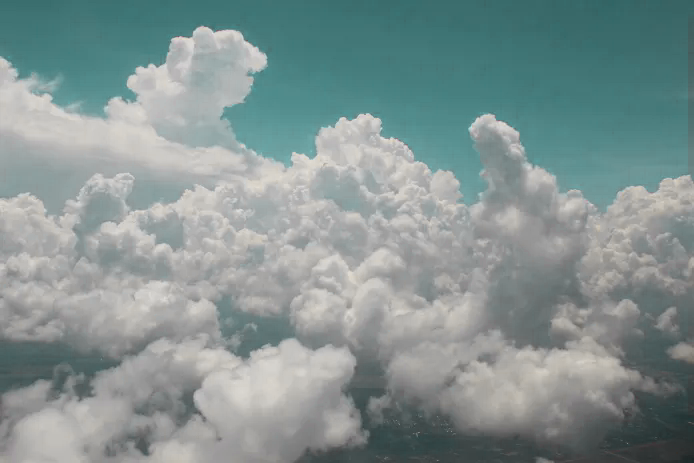
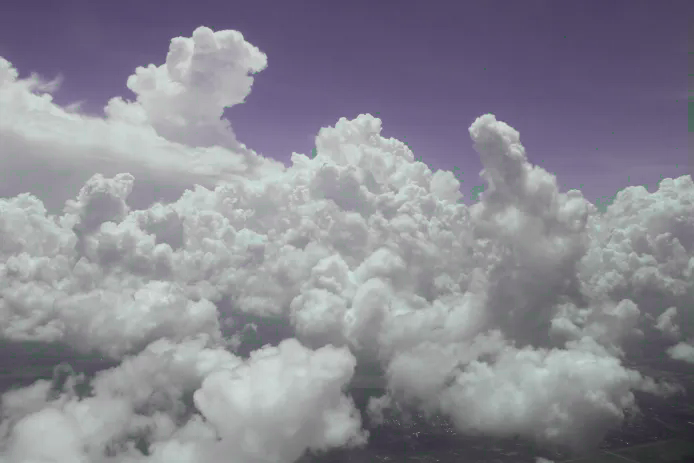
Further updates to code

Changed region(s): [[0.0, 0.0, 1.0, 0.4536]]

diff --git a/src/filter/algorithms.rs b/src/filter/algorithms.rs
@@ -77,8 +77,12 @@ fn apply_gradient_map(image: DynamicImage, gradient: &[(RgbPixel, f32)]) -> Dyna
     let mut sorted = Vec::from(gradient.clone());
     sorted.sort_by(|a, b| a.1.partial_cmp(&b.1).unwrap());
 
+    let mut max_l = f32::MIN;
+
     for pixel in rgb8_image.pixels_mut() {
-        let (_, _, l) = RgbPixel::from(&*pixel).as_hsl().get();
+        let (mut l, _, _) = RgbPixel::from(&*pixel).as_lch().get();
+
+        l = l / 100.0;
 
         let index = sorted.iter().position(|(_, threshold)| l < *threshold);
         if let Some(index) = index {
@@ -122,9 +126,9 @@ fn apply_quantize_hue(image: DynamicImage, hues: &[f32]) -> DynamicImage {
     let mut rgb8_image = image.into_rgb8();
 
     for pixel in rgb8_image.pixels_mut() {
-        let mut hsl = RgbPixel::from(&*pixel).as_hsl();
-        hsl.quantize_hue(hues);
-        (pixel[0], pixel[1], pixel[2]) = hsl.as_rgb().get_u8();
+        let mut lch = RgbPixel::from(&*pixel).as_lch();
+        lch.quantize_hue(hues);
+        (pixel[0], pixel[1], pixel[2]) = lch.as_rgb().get_u8();
     }
 
     DynamicImage::ImageRgb8(rgb8_image)

diff --git a/src/pixel/lch.rs b/src/pixel/lch.rs
@@ -64,6 +64,24 @@ impl LchPixel {
         self
     }
 
+    pub fn quantize_hue(&mut self, hues: &[f32]) -> &mut Self {
+        let mut closest_dist = f32::MAX;
+        let pixel_hue = ((self.2 % 360.0) + 360.0) % 360.0;
+        let mut current_hue = pixel_hue;
+
+        for hue in hues.iter() {
+            let normalized = ((hue % 360.0) + 360.0) % 360.0;
+            let distance = (normalized - pixel_hue).abs();
+            if distance < closest_dist {
+                closest_dist = distance;
+                current_hue = normalized;
+            }
+        }
+
+        self.2 = current_hue;
+        self
+    }
+
     pub fn distance_from(&self, other: &LchPixel) -> f32 {
         todo!("implement distance function CIE94 - use https://en.wikipedia.org/wiki/Color_difference#CIELAB_%CE%94E* as reference.");
     }

diff --git a/src/lib.rs b/src/lib.rs
@@ -163,11 +163,9 @@ mod test {
             .save("data/colour/contrast.1.5.png")?;
 
         let gradient_map = [
-            ("000000".into(), 0.00),
-            ("0000FF".into(), 0.25),
-            ("FF0000".into(), 0.50),
-            ("00FF00".into(), 0.75),
-            ("FFFFFF".into(), 1.00),
+            ("0000FF".into(), 0.50),
+            ("FF0000".into(), 0.75),
+            ("00FF00".into(), 1.00),
         ];
 
         image
@@ -175,7 +173,7 @@ mod test {
             .apply(Filter::GradientMap(&gradient_map))
             .save("data/colour/gradient-mapped.png")?;
 
-        let hue_palette = [40.0, 180.0, 330.0];
+        let hue_palette = [180.0, 300.0];
 
         image
             .clone()

diff --git a/src/pixel/hsl.rs b/src/pixel/hsl.rs
@@ -5,8 +5,8 @@ use super::{rgb::RgbPixel, conversions::{rgb_to_hsl, hsl_to_rgb}};
 /// The 3 components of an HSL pixel are as follows:
 /// 
 /// - Hue: Ranges from 0.0 to 360.0.
-/// - Saturation: Ranges from 0.0 to 100.0. (May not be currently true.)
-/// - Lightness: Ranges from 0.0 to 100.0 (May not currently be true.)
+/// - Saturation: Ranges from 0.0 to 1.0. (May not be currently true.)
+/// - Lightness: Ranges from 0.0 to 1.0 (May not currently be true.)
 /// 
 /// This is an improvement over RGB, however you may want to use LCH instead whose
 /// components more accurately reflect human vision.

diff --git a/src/pixel/mod.rs b/src/pixel/mod.rs
@@ -21,7 +21,7 @@ pub mod lch;
 /// To convert, you should use the utilities in each color space module - especially since some conversions require intermediary steps.
 /// As an example, here are all the steps to convert RGB to LCH:
 /// 
-/// ```
+/// ```text
 /// RGB -> XYZ_D65 -> XYZ_D50 -> LAB -> LCH
 /// ```
 /// 
